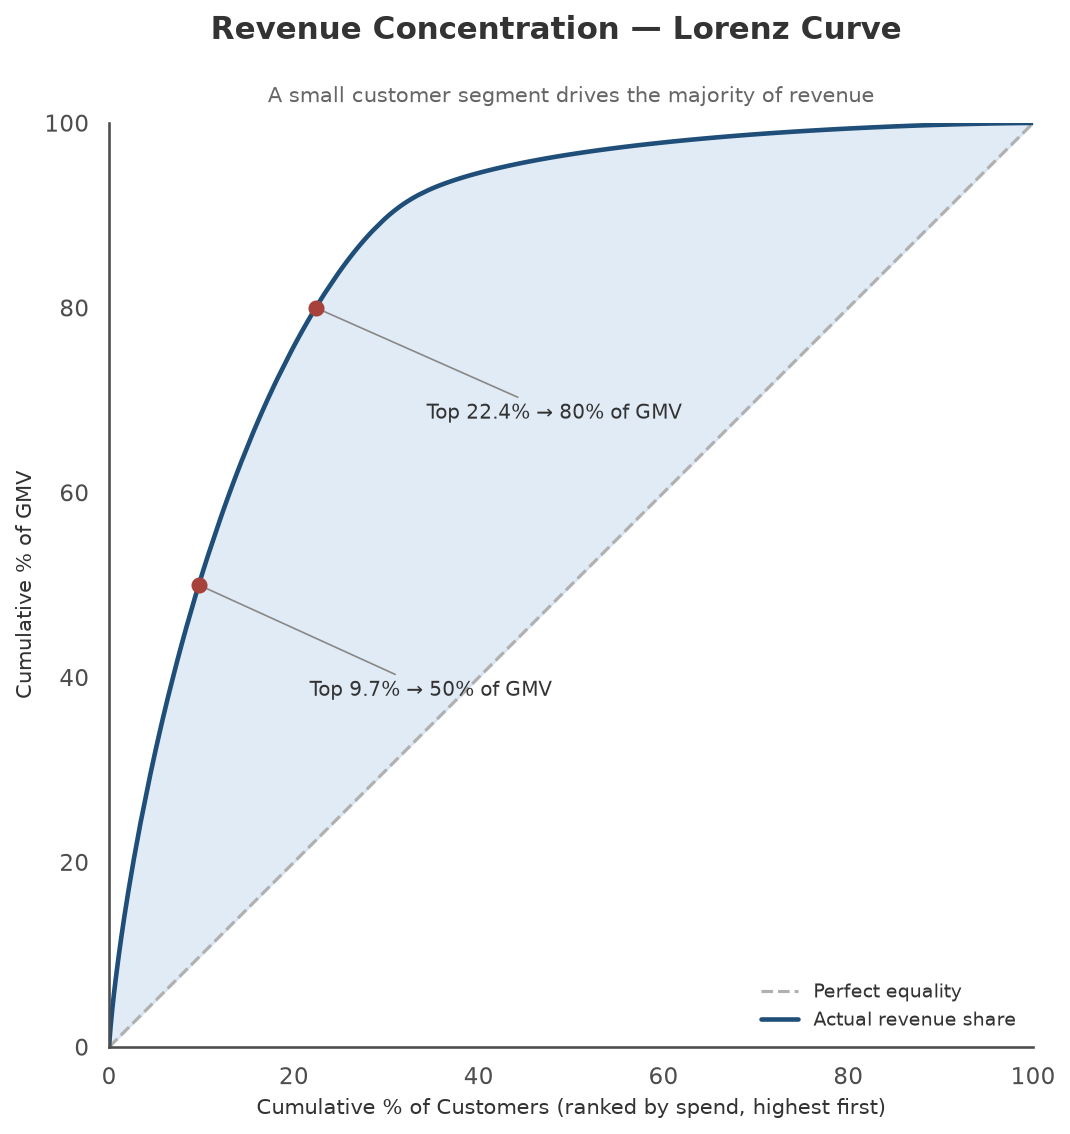
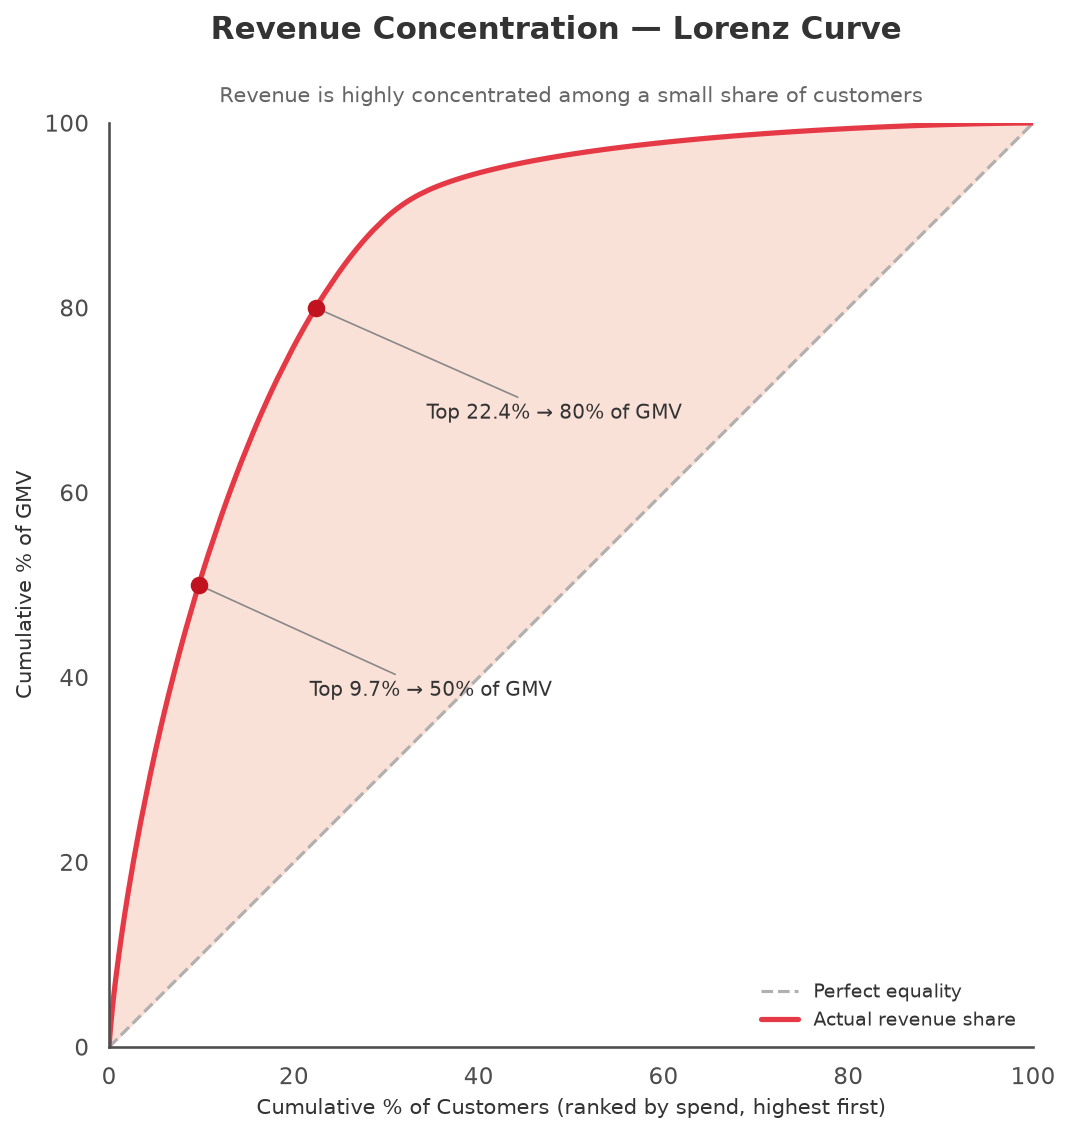
Update Lorenz curve colors to match dashboard theme
Line: #E63946, fill: #F9DED4, milestone dots: #C1121F (kept distinct
from the line color so they stay visible sitting on the curve).
Diagonal, axis labels, and milestone coordinates (pulled live from
revenue_pareto.csv) are unchanged. Subtitle updated per request.

Changed region(s): [[0.0925, 0.0617, 0.9561, 0.9259], [0.7093, 0.8951, 0.7402, 0.9259]]

diff --git a/analysis/visualisations.py b/analysis/visualisations.py
@@ -145,17 +145,18 @@ def chart_revenue_lorenz_curve():
     fig, ax = plt.subplots(figsize=(8, 8))
 
     ax.plot([0, 100], [0, 100], linestyle="--", color=LIGHT_GREY, linewidth=1.5, label="Perfect equality")
-    ax.plot(x, y, color=DARK_BLUE, linewidth=2.2, label="Actual revenue share")
-    ax.fill_between(x, x, y, where=(y >= x), color="#A9C6E8", alpha=0.35, interpolate=True)
+    ax.plot(x, y, color="#E63946", linewidth=2.5, label="Actual revenue share")
+    ax.fill_between(x, x, y, where=(y >= x), color="#F9DED4", alpha=0.9, interpolate=True)
 
     # milestone markers, pulled from the query's own milestone rows (not hardcoded) —
-    # only the 50% and 80% call-outs are annotated, per spec
+    # only the 50% and 80% call-outs are annotated, per spec. Dots use the darker
+    # #C1121F (not the curve's #E63946) so they stay visible sitting on the curve.
     for _, row in milestones.iterrows():
         target_pct = row["cumulative_gmv_pct"]
         if target_pct not in (50, 80):
             continue
         cx, cy = row["cumulative_customer_pct"], target_pct
-        ax.scatter([cx], [cy], color="#A6423B", zorder=5, s=45)
+        ax.scatter([cx], [cy], color="#C1121F", zorder=5, s=55)
         label = f"Top {cx:.1f}% → {int(cy)}% of GMV"
         ax.annotate(
             label, xy=(cx, cy), xytext=(cx + 12, cy - 12),
@@ -172,7 +173,7 @@ def chart_revenue_lorenz_curve():
     ax.legend(loc="lower right", frameon=False, fontsize=9)
 
     fig.suptitle("Revenue Concentration — Lorenz Curve", fontsize=15, fontweight="bold", y=0.97)
-    ax.set_title("A small customer segment drives the majority of revenue", fontsize=10, color="#666666", pad=10)
+    ax.set_title("Revenue is highly concentrated among a small share of customers", fontsize=10, color="#666666", pad=10)
 
     save(fig, "revenue_lorenz_curve.png")
     print("Chart 3 saved: revenue_lorenz_curve.png")
